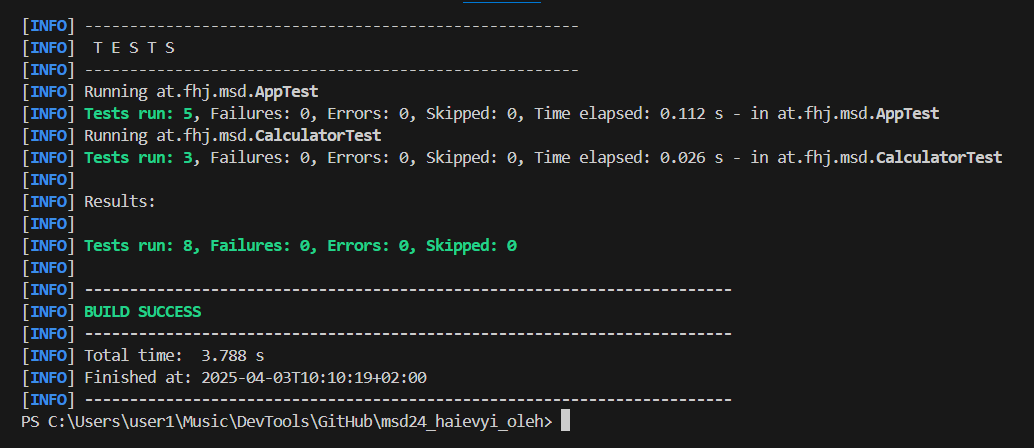
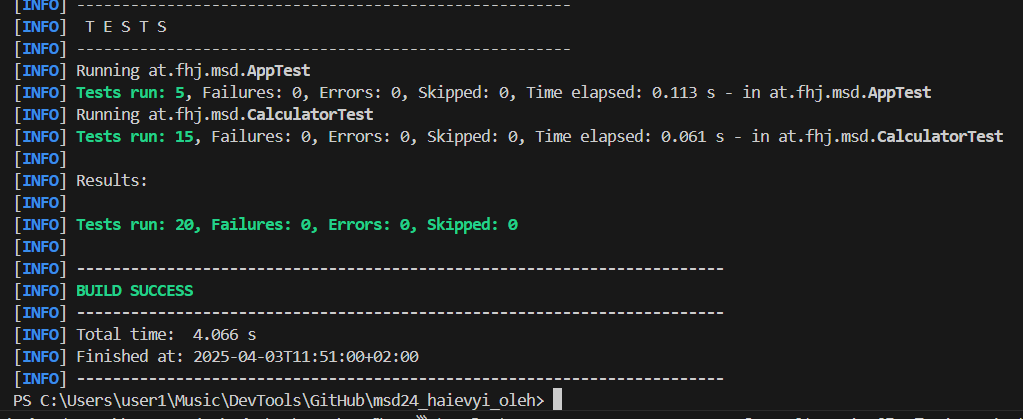
update readme with test screenshots

diff --git a/src/test/java/at/fhj/msd/CalculatorTest.java b/src/test/java/at/fhj/msd/CalculatorTest.java
@@ -92,19 +92,19 @@ public class CalculatorTest {
 
     //factorial
     @Test
-    @DisplayName("factorial of 3 should be 6")
+    @DisplayName("factorial 3 should 6")
     void testFactorialOfThree() {
         assertEquals(6, calc.factorial(3));
     }
 
     @Test
-    @DisplayName("factorial of 0 should be 1")
+    @DisplayName("factorial 0 should 1")
     void testFactorialOfZero() {
         assertEquals(1, calc.factorial(0));
     }
 
     @Test
-    @DisplayName("factorial of 1 should be 1")
+    @DisplayName("factorial 1 should be 1")
     void testFactorialOfOne() {
         assertEquals(1, calc.factorial(1));
     }

diff --git a/src/main/java/at/fhj/msd/Calculator.java b/src/main/java/at/fhj/msd/Calculator.java
@@ -19,7 +19,7 @@ public class Calculator {
         return number1 * number2;
     }
 
-    public int factorial(int n) { // simple factorial
+    public int factorial(int n) { //simple factorial
         int result = 1;
         for (int i = 1; i <= n; i++) {
             result = result * i;

diff --git a/README.md b/README.md
@@ -8,60 +8,58 @@ Der Calculator kann Folgendes:
 - **Subtrahieren**: Eine Zahl von einer anderen abziehen  
 - **Dividieren**: Zwei Zahlen teilen (nicht durch 0!)  
 - **Multiplizieren**: Zwei Zahlen miteinander multiplizieren  
+- **Fakultät berechnen**: z. B. 3! = 6  
 
 ## Wie funktioniert es?  
-Ich habe den Code in Java geschrieben. Es gibt ein Interface `ICalculator` und die Klasse `CalculatorImpl`.  
+Ich habe den Code in Java geschrieben. Es gibt die Klasse `Calculator.java` mit allen Methoden.  
 Beispiel:  
 - `add(2, 3)` gibt `5` zurück.  
 - `divide(5, 0)` führt zu einem Fehler.  
+- `factorial(3)` gibt `6` zurück.  
 
-## Änderungen in dieser Übung  
+## Änderungen in Übung 04  
 In dieser Übung haben wir:  
-- Ein Maven-Projekt erstellt und mit Git versioniert.  
-- Die Datei `pom.xml` angepasst und Abhängigkeiten sowie Plugins hinzugefügt.  
-- Die Java-Klassen `Calculator` und `Main` im Paket `at.fhj.msd` erstellt.  
-- Das Projekt erfolgreich mit `mvn compile` kompiliert.  
-- Die Anwendung mit `mvn exec:java` gestartet.  
-- Screenshots zur Dokumentation erstellt und gespeichert.  
+- Die Datei `pom.xml` erweitert und JUnit 5 hinzugefügt  
+- Eine Testklasse `CalculatorTest.java` geschrieben  
+- 15 Unit-Tests erstellt für `add`, `minus`, `multiply`, `divide` und `factorial`  
+- Die Tests mit `mvn test` ausgeführt und Screenshot gemacht  
 
 ## Übungen  
 - [Exercise1](./exercise1.md)  
 - [Exercise2](exercise2.md)  
 - [Exercise3](exercise3.md)  
-- Exercise4 (noch nicht vorhanden)  
+- [Exercise4](exercise4.md) ✅  
 - Exercise5 (kommt bald)  
 - Exercise6 (in Planung)  
 
 ## Struktur des Projekts  
 Das Projekt enthält folgende Dateien:  
 - `README.md` – Diese Datei  
-- `exercise1.md` – Dokumentation der ersten Übung  
-- `exercise3.md` – Dokumentation dieser Übung  
-- `CalculatorImpl.java` – Die Implementierung des Rechners  
-- `ICalculator.java` – Das Interface für den Rechner  
+- `exercise4.md` – Dokumentation dieser Übung  
+- `Calculator.java` – Die Implementierung des Rechners  
+- `Main.java` – Startpunkt des Programms  
 - `pom.xml` – Die Maven-Konfigurationsdatei  
+- `CalculatorTest.java` – JUnit-Testklasse
 
-## Installation & Nutzung  
-1. Java (Version 11 oder höher) installieren  
-2. Den Code in Eclipse, IntelliJ oder einer anderen IDE laden  
-3. Maven für die Nutzung von `pom.xml` installieren  
-4. Die Datei `CalculatorImpl` starten  
+## Tests und Screenshots
 
-## Screenshots dieser Übung  
-### 🔹 **Projektstruktur**
-![Projektstruktur](resources/images/ex3_1.png)  
+Die Tests wurden mit `mvn test` ausgeführt.  
+Es gibt zwei Screenshots:
 
-### 🔹 **Erfolgreiche Kompilierung (`mvn compile`)**
-![Erfolgreiche Kompilierung](resources/images/ex3_2.png)  
+- ✅ **Erfolgreicher Testlauf** – alle Tests sind OK  
+- ❌ **Fehlerhafter Testlauf** – ein absichtlich falsch geschriebener Test
 
-### 🔹 **Erfolgreiche Ausführung (`mvn exec:java`)**
-![Erfolgreiche Ausführung](resources/images/ex3_3.png)  
+### Erfolgreicher Testlauf
+
+![mvn test erfolgreich](resources/images/ex4_1.png)
+
+### Fehlerhafter Testlauf
+
+![mvn test fehlerhaft](resources/images/ex4_2.png)
+
 
 ## Über mich
->
-
-
->*Oleh Haievyi* – Student an der FH Joanneum  
+> *Oleh Haievyi* – Student an der FH Joanneum  
 
 - **Mein GitHub-Profil:** [Oleh Haievyi](https://github.com/oleh-haievyi)  
 - **Fachhochschule:** [FH Joanneum](https://www.fh-joanneum.at/)  

diff --git a/README-Haievyi-Oleh.md b/README-Haievyi-Oleh.md
@@ -8,59 +8,58 @@ Der Calculator kann Folgendes:
 - **Subtrahieren**: Eine Zahl von einer anderen abziehen  
 - **Dividieren**: Zwei Zahlen teilen (nicht durch 0!)  
 - **Multiplizieren**: Zwei Zahlen miteinander multiplizieren  
+- **Fakultät berechnen**: z. B. 3! = 6  
 
 ## Wie funktioniert es?  
-Ich habe den Code in Java geschrieben. Es gibt ein Interface `ICalculator` und die Klasse `CalculatorImpl`.  
+Ich habe den Code in Java geschrieben. Es gibt die Klasse `Calculator.java` mit allen Methoden.  
 Beispiel:  
 - `add(2, 3)` gibt `5` zurück.  
 - `divide(5, 0)` führt zu einem Fehler.  
+- `factorial(3)` gibt `6` zurück.  
 
-## Änderungen in dieser Übung  
+## Änderungen in Übung 04  
 In dieser Übung haben wir:  
-- Ein Maven-Projekt erstellt und mit Git versioniert.  
-- Die Datei `pom.xml` angepasst und Abhängigkeiten sowie Plugins hinzugefügt.  
-- Die Java-Klassen `Calculator` und `Main` im Paket `at.fhj.msd` erstellt.  
-- Das Projekt erfolgreich mit `mvn compile` kompiliert.  
-- Die Anwendung mit `mvn exec:java` gestartet.  
-- Screenshots zur Dokumentation erstellt und gespeichert.  
+- Die Datei `pom.xml` erweitert und JUnit 5 hinzugefügt  
+- Eine Testklasse `CalculatorTest.java` geschrieben  
+- 15 Unit-Tests erstellt für `add`, `minus`, `multiply`, `divide` und `factorial`  
+- Die Tests mit `mvn test` ausgeführt und Screenshot gemacht  
 
 ## Übungen  
 - [Exercise1](./exercise1.md)  
 - [Exercise2](exercise2.md)  
 - [Exercise3](exercise3.md)  
-- Exercise4 (noch nicht vorhanden)  
+- [Exercise4](exercise4.md) ✅  
 - Exercise5 (kommt bald)  
 - Exercise6 (in Planung)  
 
 ## Struktur des Projekts  
 Das Projekt enthält folgende Dateien:  
 - `README.md` – Diese Datei  
-- `exercise1.md` – Dokumentation der ersten Übung  
-- `exercise3.md` – Dokumentation dieser Übung  
-- `CalculatorImpl.java` – Die Implementierung des Rechners  
-- `ICalculator.java` – Das Interface für den Rechner  
+- `exercise4.md` – Dokumentation dieser Übung  
+- `Calculator.java` – Die Implementierung des Rechners  
+- `Main.java` – Startpunkt des Programms  
 - `pom.xml` – Die Maven-Konfigurationsdatei  
+- `CalculatorTest.java` – JUnit-Testklasse
 
-## Installation & Nutzung  
-1. Java (Version 11 oder höher) installieren  
-2. Den Code in Eclipse, IntelliJ oder einer anderen IDE laden  
-3. Maven für die Nutzung von `pom.xml` installieren  
-4. Die Datei `CalculatorImpl` starten  
+## Tests und Screenshots
 
-## Screenshots dieser Übung  
-### 🔹 **Projektstruktur**
-![Projektstruktur](resources/images/ex3_1.png)  
+Die Tests wurden mit `mvn test` ausgeführt.  
+Es gibt zwei Screenshots:
 
-### 🔹 **Erfolgreiche Kompilierung (`mvn compile`)**
-![Erfolgreiche Kompilierung](resources/images/ex3_2.png)  
+- ✅ **Erfolgreicher Testlauf** – alle Tests sind OK  
+- ❌ **Fehlerhafter Testlauf** – ein absichtlich falsch geschriebener Test
 
-### 🔹 **Erfolgreiche Ausführung (`mvn exec:java`)**
-![Erfolgreiche Ausführung](resources/images/ex3_3.png)  
+### Erfolgreicher Testlauf
+
+![mvn test erfolgreich](resources/images/ex4_1.png)
+
+### Fehlerhafter Testlauf
+
+![mvn test fehlerhaft](resources/images/ex4_2.png)
+
 
 ## Über mich
->
-
->*Oleh Haievyi* – Student an der FH Joanneum  
+> *Oleh Haievyi* – Student an der FH Joanneum  
 
 - **Mein GitHub-Profil:** [Oleh Haievyi](https://github.com/oleh-haievyi)  
 - **Fachhochschule:** [FH Joanneum](https://www.fh-joanneum.at/)  
